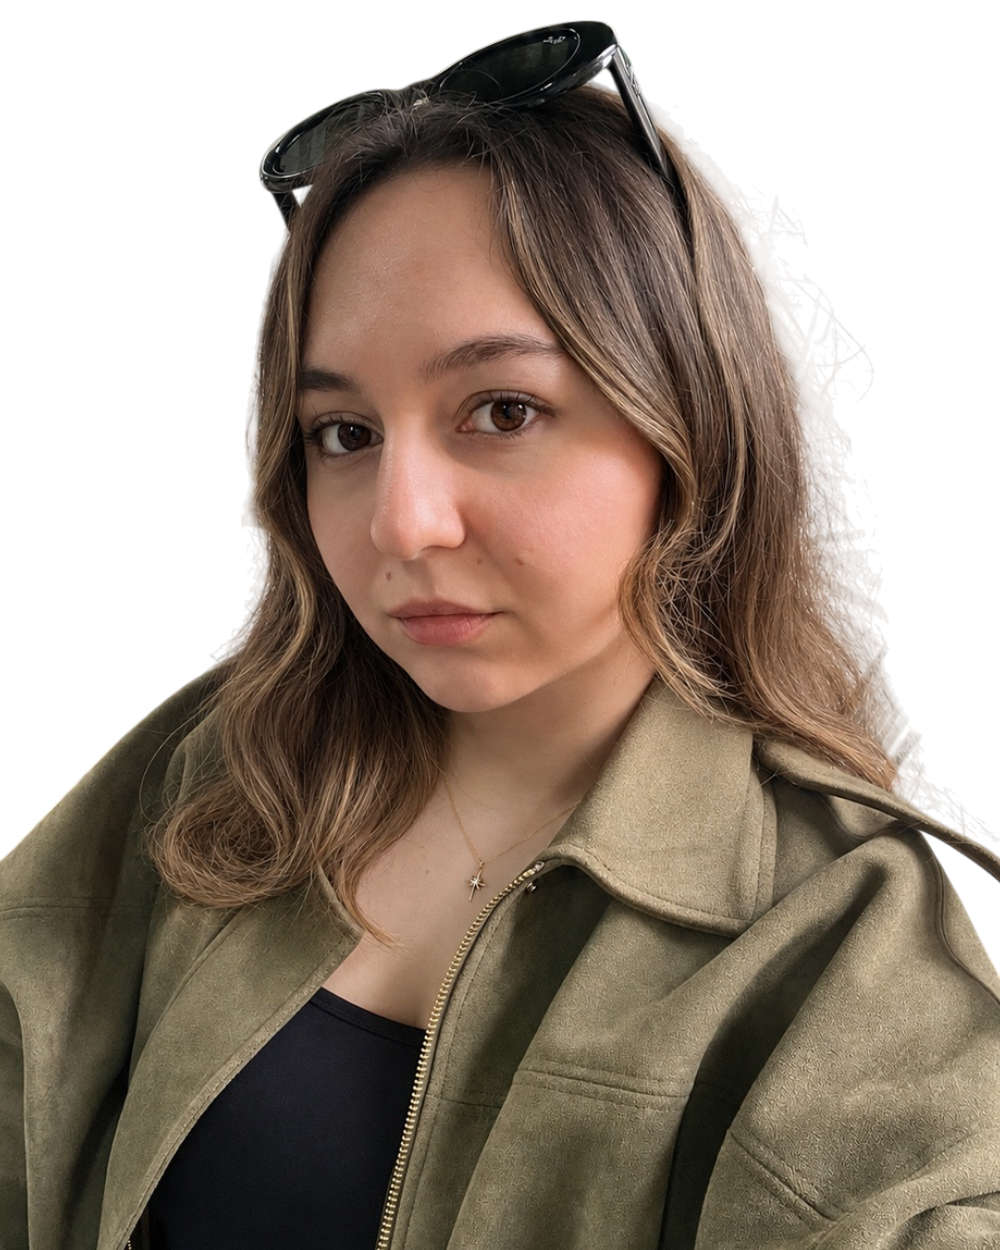
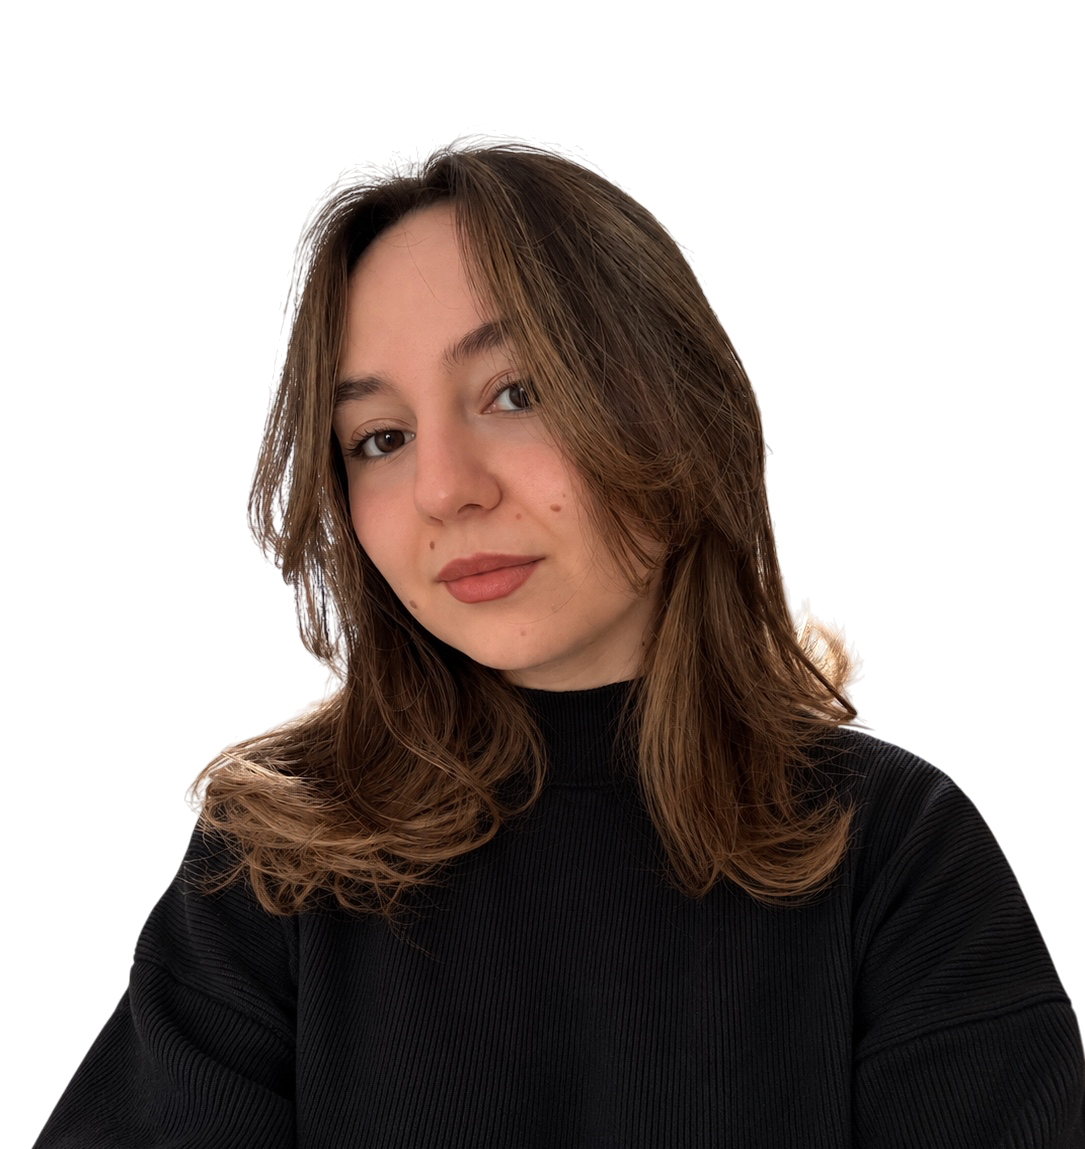
son revize

diff --git a/index.html b/index.html
@@ -1793,7 +1793,9 @@
                 return `
                 <div onclick="openModal('${work.id}')" class="project-card cursor-pointer group flex flex-col reveal ${index % 2 === 1 && filteredProjects.length > 2 ? 'md:mt-12 lg:mt-16' : ''}">
                     <div class="img-wrapper w-full ${aspectClass} bg-white/5 border border-white/10 mb-3 sm:mb-4 shadow-sm">
-                        ${safeMediaHTML(work.img, ['thumbnails', 'aiVisual'].includes(work.viewMode) ? "w-full h-full object-contain" : "w-full h-full object-cover object-top")}
+                        ${work.viewMode === 'video' && work.content?.VIDEO?.[0]
+                            ? `<video class="video-card-preview w-full h-full object-cover object-top" style="filter:blur(3px); pointer-events:none" src="${encodeURI(work.content.VIDEO[0])}" muted playsinline preload="metadata" disablepictureinpicture aria-hidden="true" tabindex="-1"></video>`
+                            : safeMediaHTML(work.img, ['thumbnails', 'aiVisual'].includes(work.viewMode) ? "w-full h-full object-contain" : "w-full h-full object-cover object-top")}
                         <div class="project-overlay hidden md:flex">
                             <span class="overlay-btn font-mono text-xs uppercase tracking-widest">${hoverText}</span>
                         </div>
@@ -1812,6 +1814,15 @@
                     <p class="text-white/60 text-sm sm:text-base">${currentLang === 'tr' ? 'Çalışmalar yakında burada.' : 'Projects coming soon.'}</p>
                 </div>`;
             }
+            galleryContent.querySelectorAll('.video-card-preview').forEach(video => {
+                // Decode a still near one second without playing audio or the video.
+                video.muted = true;
+                video.addEventListener('loadedmetadata', () => {
+                    const time = Number.isFinite(video.duration) ? Math.min(1, Math.max(0, video.duration - 0.05)) : 1;
+                    video.currentTime = time;
+                }, { once: true });
+                video.addEventListener('seeked', () => video.pause(), { once: true });
+            });
             attachCursorHover();
             initReveal();
         }
@@ -2159,22 +2170,21 @@
                 frontCtx.stroke();
 
                 // OPTIMIZED PHOTO FRAME & BALANCED SPACING
-                const photoMaxW = 600;
+                const photoMaxW = 760;
                 const photoMaxH = 650;
                 const photoY = 195;
 
                 if (profileImg.complete && profileImg.naturalWidth !== 0) {
-                    const imgRatio = profileImg.naturalWidth / profileImg.naturalHeight;
-                    let drawW = photoMaxW;
-                    let drawH = drawW / imgRatio;
-                    if (drawH > photoMaxH) {
-                        drawH = photoMaxH;
-                        drawW = drawH * imgRatio;
-                    }
+                    // Keep the complete source width and the top; crop only below the photo area.
+                    const drawW = photoMaxW;
+                    const drawH = drawW * profileImg.naturalHeight / profileImg.naturalWidth;
                     const drawX = (w - drawW) / 2;
-                    const drawY = photoY + (photoMaxH - drawH) / 2;
-
-                    frontCtx.drawImage(profileImg, drawX, drawY, drawW, drawH);
+                    frontCtx.save();
+                    frontCtx.beginPath();
+                    frontCtx.rect(0, photoY, w, photoMaxH);
+                    frontCtx.clip();
+                    frontCtx.drawImage(profileImg, drawX, photoY, drawW, drawH);
+                    frontCtx.restore();
                 } else {
                     // Fallback placeholder
                     frontCtx.save();
